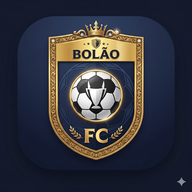
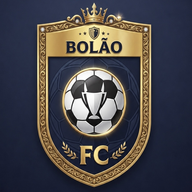
Atualiza ícone: escudo BOLÃO FC quadrado; aparece na tela de login e como ícone do app
https://claude.ai/code/session_01EuBdkVUMadaYyJzAfjWoLT

diff --git a/index.html b/index.html
@@ -373,7 +373,7 @@ input:checked+.slider:before{transform:translateX(18px)}
 /* Auth screen */
 .auth-wrapper{display:flex;flex-direction:column;justify-content:center;min-height:100%;padding:32px 24px}
 .auth-logo{text-align:center;margin-bottom:36px}
-.auth-icon{width:90px;height:90px;border-radius:22px;display:block;margin:0 auto 14px;box-shadow:0 6px 24px rgba(0,0,0,.5)}
+.auth-icon{width:110px;height:110px;border-radius:22px;object-fit:cover;display:block;margin:0 auto 14px;box-shadow:0 6px 28px rgba(0,0,0,.6)}
 .auth-appname{color:var(--secondary);font-size:38px;font-weight:900;letter-spacing:-1px;display:block;line-height:1}
 .auth-tagline{color:var(--text3);font-size:13px;font-weight:700;text-transform:uppercase;letter-spacing:3px;margin-top:6px;display:block}
 .divider{display:flex;align-items:center;gap:12px;margin:16px 0}
@@ -446,7 +446,7 @@ input:checked+.slider:before{transform:translateX(18px)}
   .btn-sm{padding:9px 14px;font-size:12px}
   .auth-wrapper{padding:24px 18px}
   .auth-appname{font-size:30px}
-  .auth-icon{width:74px;height:74px;border-radius:18px}
+  .auth-icon{width:88px;height:88px;border-radius:18px}
   .auth-logo{margin-bottom:26px}
   .flag{font-size:26px}
   .bet-flag{font-size:36px}
@@ -515,7 +515,7 @@ input:checked+.slider:before{transform:translateX(18px)}
       <div style="font-size:12px;color:var(--text2)">Faça login ou crie uma conta gratuita para entrar no bolão.</div>
     </div>
     <div class="auth-logo">
-      <img src="icon.svg" class="auth-icon" alt="Bolão">
+      <img src="icon-512.png" class="auth-icon" alt="Bolão">
       <span class="auth-appname">Bolão FC</span>
       <span class="auth-tagline">Copa 2026</span>
     </div>
